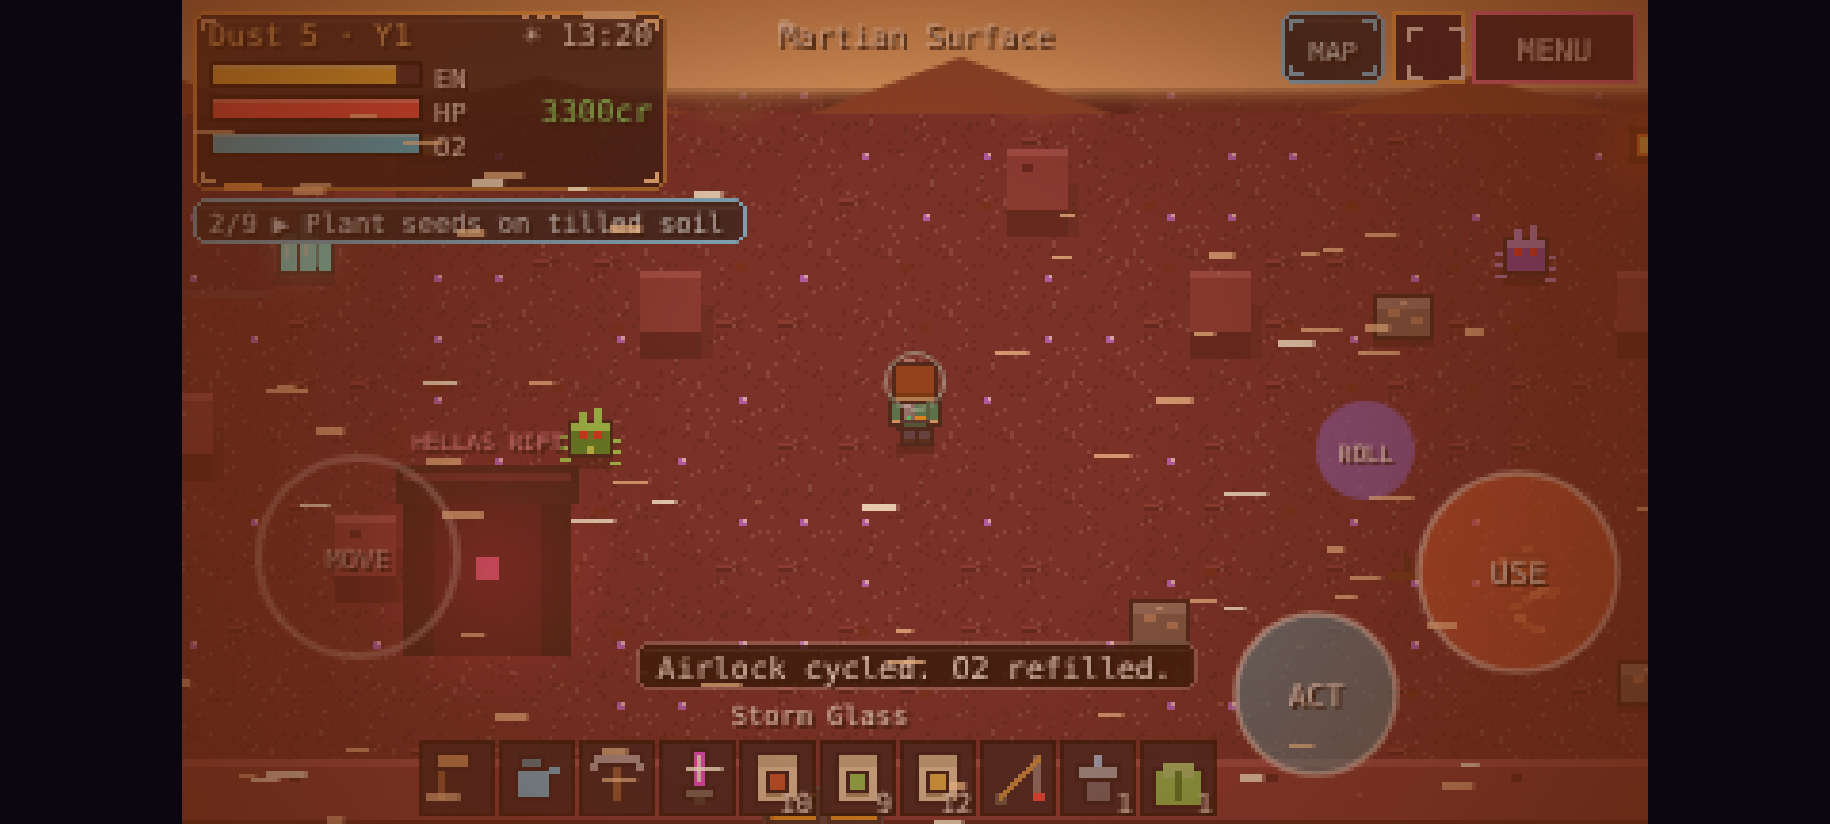
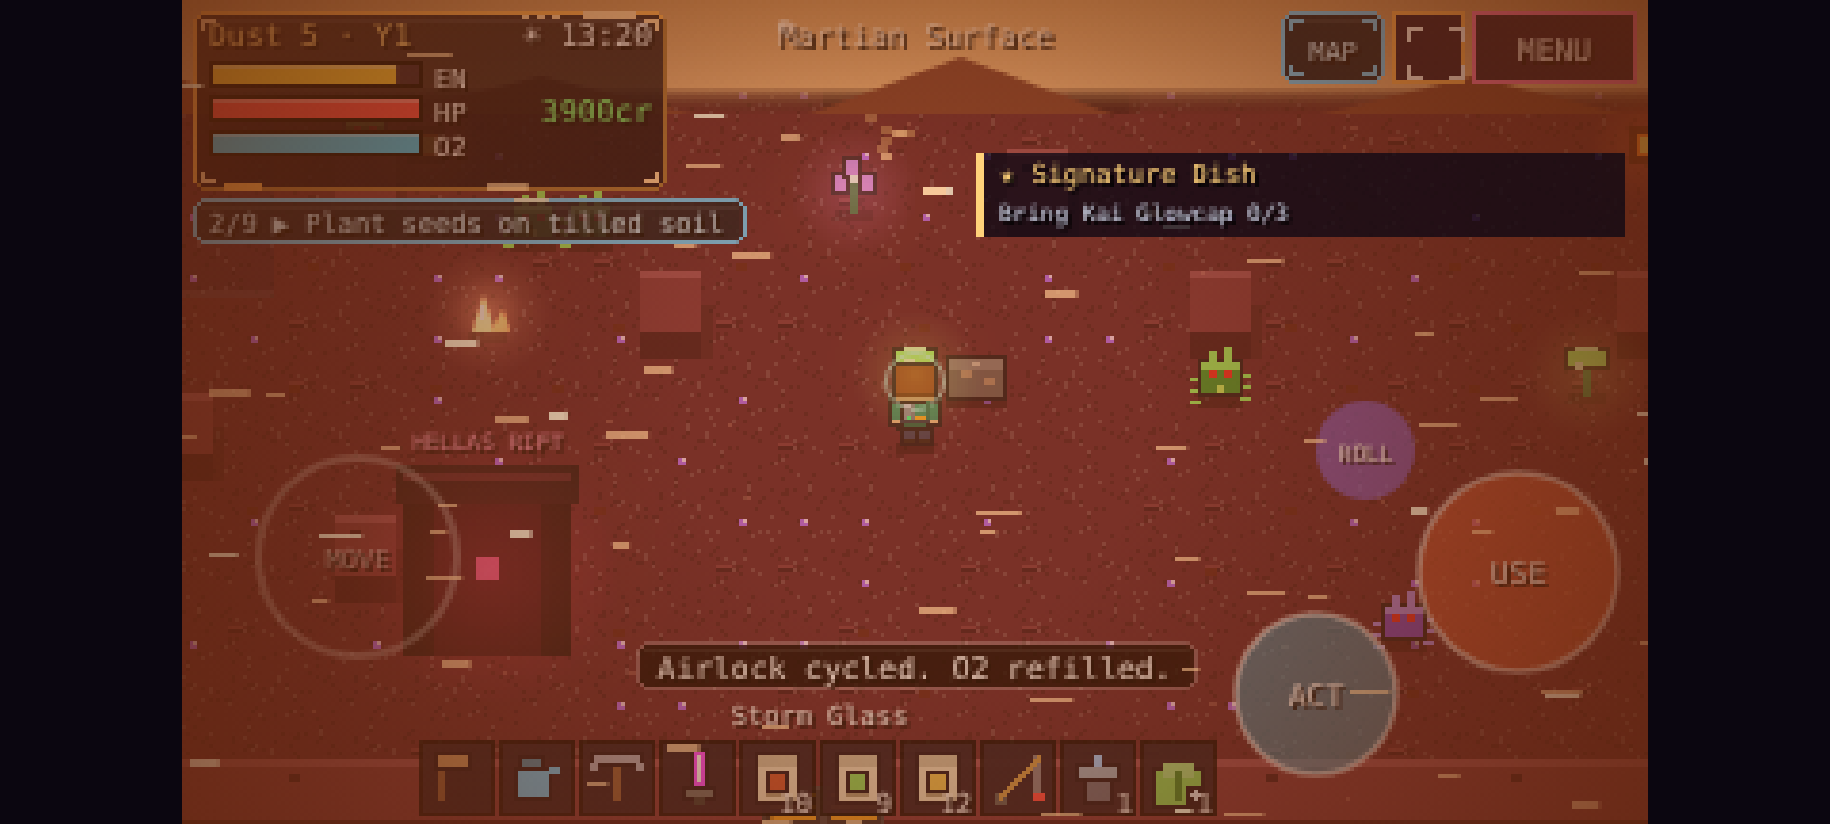
Round 13: fix frame-time spikes (bg cache for farm/city, honest per-frame flush timing, p95 test), friendship side quests + tap-to-open quest tracker, v14

diff --git a/js/v11.js b/js/v11.js
@@ -1,0 +1,29 @@
+// Farm Mars v11 (round 13): friendship side quests + quest tracker
+// ---------- FRIENDSHIP SIDE QUESTS ----------
+const SQ=[
+ {id:'ava1',npc:'ava',h:3,t:'Seal Check',steps:[['iron',5,"The north dome seal is cracking. Could you bring me 5 Iron so I can patch it?"],['crys',2,"The patch holds! Now I need 2 Crystals for the pressure sensor."]],r:[600,'qspr',1],end:"The dome is sealed tight. You've saved us a lot of trouble. Here's a Quality Sprinkler from my stash."},
+ {id:'kai1',npc:'kai',h:3,t:'Signature Dish',steps:[['glowcap',3,"I want a new house special. Bring me 3 Glowcaps and I'll start experimenting."],['egg',2,"Close, but it needs protein. 2 Eggs please!"]],r:[500,'medkit',3],end:"The Glowcap Omelette is a hit! It's named after you on the menu. Take these medkits too."},
+ {id:'mo1',npc:'mo',h:3,t:'Old Mo\'s Lost Pick',steps:[['cob',4,"My grandfather's pick is somewhere down on floor 4. Bring me 4 Cobalt so I can forge a locator."],['jasp',1,"The locator needs a Jasper lens. Just one."]],r:[900,'s_mel',5],end:"Found it! It's still sharp, too. Here are some melon seeds I was keeping for a special occasion."},
+ {id:'pip1',npc:'pip',h:3,t:'Pip\'s Space Garden',steps:[['lily',2,"I'm planting a garden in a tin can. Can I have 2 Dust Lilies? Please!"]],r:[350,'glowcap',3],end:"They're growing! I'm going to be a farmer just like you!"},
+ {id:'theo1',npc:'theo',h:4,t:'Fossil Mystery',steps:[['rel1',1,"I think a buried relic would explain the canyon layers. Could you find one?"],['opal',1,"An Opal would date this precisely. Do you have one?"]],r:[1200,'rGlow',1],end:"Two billion years old! I'll credit you in my paper. Please take this ring."},
+];
+const sqs=()=>{if(!G.sq)G.sq={};return G.sq};
+function sqAvail(q){const s=sqs()[q.id];return s==null&&(G.hearts[q.npc]||0)>=q.h&&!!NPCS.find(n=>n.id==q.npc)&&!!ITEMS[q.steps[0][0]]}
+function sqStatus(q){const s=sqs()[q.id];if(s=='done')return 'Done';if(s==null)return (G.hearts[q.npc]||0)>=q.h?'New!':'Locked ('+q.h+'♥ with '+NPCS.find(n=>n.id==q.npc).n+')';const[it,n]=q.steps[s];return 'Bring '+n+' '+ITEMS[it].n+' ('+Math.min(cnt(it),n)+'/'+n+')'}
+function questLog(){const o=SQ.filter(q=>NPCS.find(n=>n.id==q.npc)).map(q=>q.t+': '+sqStatus(q));say('Side Quests',[o.join('\n')+'\n\nTalk to townsfolk when you are friends to start their quests. Bring what they ask for to finish them.'])}
+{const _t=talk;talk=function(n){const qs=SQ.filter(q=>q.npc==n.id);for(const q of qs){const s=sqs()[q.id];
+  if(s==null&&sqAvail(q)){sqs()[q.id]=0;sfx('menu');say(n.n,['I have a favor to ask... ('+q.t+')',q.steps[0][2]],null,n.look);toast('New side quest: '+q.t);return}
+  if(typeof s=='number'){const[it,c]=q.steps[s];if(cnt(it)>=c){rem(it,c);const ns=s+1;sfx('coin');
+    if(ns>=q.steps.length){sqs()[q.id]='done';G.money+=q.r[0];if(q.r[1])add(q.r[1],q.r[2]);addHearts(n,2);parts(G.px,G.py-12,'#ffd27a',16,1.5);floatTxt(G.px,G.py-26,'Quest complete! +'+q.r[0]+'cr','#ffd27a');
+      G.sqN=(G.sqN||0)+1;if(G.sqN>=3&&!G.ach.helper){G.ach.helper=1;toast('Achievement: Good Neighbor!')}say(n.n,q.end,null,n.look);return}
+    sqs()[q.id]=ns;addHearts(n,1);say(n.n,['Thank you!',q.steps[ns][2]],null,n.look);return}}}
+  return _t(n)}}
+{const _b=boardMenu;boardMenu=function(){_b.apply(this,arguments);if(modal&&!modal.opts)modal.opts=[{t:'OK',f:()=>{}},{t:'Side Quests',f:()=>questLog()}];else if(modal&&modal.opts)modal.opts.push({t:'Side Quests',f:()=>questLog()})}}
+// ---------- quest tracker HUD (tap to open log) ----------
+function sqActive(){for(const q of SQ){const s=sqs()[q.id];if(typeof s=='number')return q}return null}
+function sqTrackRect(){return[W-176,40,170,22]}
+function sqTrackText(q){const[it,n]=q.steps[sqs()[q.id]];const c=Math.min(cnt(it),n);return[q.t,'Bring '+NPCS.find(x=>x.id==q.npc).n+' '+ITEMS[it].n+' '+c+'/'+n,c>=n]}
+{const _d=draw;draw=function(){_d.apply(this,arguments);if(!G||TITLE||CRED||modal||menu||CUT)return;const q=sqActive();if(!q)return;const[x,y,w,h]=sqTrackRect(),[t,l,ready]=sqTrackText(q);
+ R(x,y,w,h,'#0a0614c0');R(x,y,2,h,ready?'#7f7':'#ffd27a');txt('★ '+t,x+6,y+8,'#ffd27a',7);txt(l,x+6,y+18,ready?'#9f9':'#cfd6e8',6)}}
+{const _t=onTap;onTap=function(x,y){if(G&&!TITLE&&!CRED&&!modal&&!menu&&!CUT&&sqActive()){const[a,b,w,h]=sqTrackRect();if(x>=a&&x<=a+w&&y>=b&&y<=b+h){questLog();sfx('menu');return true}}return _t.apply(this,arguments)}}
+window.FM11={SQ,sqs,questLog,sqActive,sqTrackRect};

diff --git a/tests/features.js b/tests/features.js
@@ -19,9 +19,17 @@ module.exports=async({t,ev,page,path,SHOTS})=>{
   if((G.stats.treasure||0)!=tr0+1)throw new Error('no treasure');if(!(G.stats.perfect>=1))throw new Error('no perfect');G.wx='dust';let s=0;for(let i=0;i<200;i++)if(pickFish()=='sglf')s++;G.wx=null;if(!s)throw new Error('no glassfish');return 'ok, glassfish '+s+'/200'}));
  await t('NPC dust-storm dialogue + tap-to-talk',async()=>ev(()=>{G.wx='dust';G.talked={};const n=NPCS.find(q=>q.id=='mo');chat(n);const p=modal&&modal.pages.join(' ');modal=null;G.wx=null;if(!p||!p.includes('Storms'))throw new Error('line: '+p);
   enter('city',16,14,0);G.time=8*60;placeNPCs(true);const r=npcRT.mo;G.px=r.x+20;G.py=r.y;draw();const ox=Math.round(CAM.x),oy=Math.round(CAM.y);G.talked={};onTap(r.x-ox,r.y-10-oy);const ok=!!modal;modal=null;if(!ok)throw new Error('tap did not talk');return 'ok'}));
+ await t('side quests: unlock at hearts, multi-step delivery, rewards, quest log',async()=>ev(()=>{G.sq={};const q=FM11.SQ[0],n=NPCS.find(x=>x.id==q.npc);G.hearts[n.id]=0;talk(n);modal=null;if(G.sq[q.id]!=null)throw new Error('started while locked');
+  G.hearts[n.id]=4;talk(n);modal=null;if(G.sq[q.id]!==0)throw new Error('not started');talk(n);modal=null;if(G.sq[q.id]!==0)throw new Error('advanced without items');
+  add('iron',5);talk(n);modal=null;if(G.sq[q.id]!==1)throw new Error('step1');add('crys',2);const m=G.money;talk(n);modal=null;if(G.sq[q.id]!='done')throw new Error('not done');if(G.money!=m+q.r[0])throw new Error('reward');
+  FM11.questLog();if(!modal||!modal.pages[0].includes('Done'))throw new Error('log');modal=null;for(const x of FM11.SQ)for(const[s]of x.steps)if(!ITEMS[s])throw new Error('bad item '+s);boardMenu();if(!modal.opts.some(o=>o.t=='Side Quests'))throw new Error('board link');modal=null;
+  const q2=FM11.SQ[1];G.hearts[q2.npc]=5;talk(NPCS.find(x=>x.id==q2.npc));modal=null;if(FM11.sqActive()!=q2)throw new Error('tracker');draw();const[rx,ry,rw,rh]=FM11.sqTrackRect();onTap(rx+10,ry+10);if(!modal||!modal.pages[0].includes(q2.t))throw new Error('tracker tap');modal=null;return 'ok'}));
  await t('screenshots',async()=>{const shot=async(n,f)=>{await ev(f);await new Promise(r=>setTimeout(r,450));await page.screenshot({path:path.join(SHOTS,n)})};
   await shot('fm13_museum.png',()=>{for(const i of FM10.MALL.slice(0,22))G.muse[i]=1;enter('museum',6,5,0);G.time=700;modal=null;if(npcRT.theo){npcRT.theo.zone='museum';npcRT.theo.x=10*T+8;npcRT.theo.y=4*T+8}});
   await shot('fm13_dust.png',()=>{G.wx='dust';DUSTD=-1;SURF=null;enter('surf',33,37,0);G.time=800;modal=null});
   await shot('fm13_magma.png',()=>{G.wx=null;enterMine(8);modal=null;G.px=9*T;G.py=8*T;const e=ENTS.filter(e=>e.t=='ember');if(e[0]){e[0].x=G.px+40;e[0].y=G.py-10;e[0].tm=60}});
-  await ev(()=>{enter('farm',13,9,2)});return 'saved'});
+  await shot('fm14_tracker.png',()=>{modal=null;G.sq={kai1:0};add('glowcap',2);enter('farm',13,9,2);G.time=1000});
+  await shot('fm14_log.png',()=>{G.sq={ava1:'done',kai1:1,mo1:0};FM11.questLog()});
+  await shot('fm14_quest.png',()=>{modal=null;G.sq={};const n=NPCS.find(x=>x.id=='kai');G.hearts.kai=5;enter('city',16,14,0);G.time=720;placeNPCs(true);const r=npcRT.kai;if(r.zone=='city'){G.px=r.x+20;G.py=r.y}talk(n)});
+  await ev(()=>{modal=null;enter('farm',13,9,2)});return 'saved'});
 };

diff --git a/js/ui.js b/js/ui.js
@@ -94,8 +94,8 @@ function shoot(e,a,s,d){PR.push({x:e.x,y:e.y-6,vx:Math.cos(a)*s,vy:Math.sin(a)*s
 // ---------- render ----------
 let LIGHTS=[];const light=(x,y,r,c)=>LIGHTS.push({x,y,r,c});
 // static base-tile layer for big outdoor maps (one blit instead of ~400 per frame)
-const BGK={};function bgCache(z,m){if(z!='valles'&&z!='surf'&&z!='mine')return null;const mw=m[0].length*T,mh=m.length*T;if(mw<W||mh<H)return null;const k=z+(z=='surf'?G.terra:''),sig=z=='mine'?m.map(r=>r.join('')).join(''):'';const o=BGK[k];if(o&&o.m===m&&o.sig===sig)return o.c;
- const c=document.createElement('canvas');c.width=mw;c.height=mh;const g=c.getContext('2d');for(let y=0;y<m.length;y++)for(let x=0;x<m[0].length;x++)g.drawImage(tileImg(z,m[y][x],hash(x,y)%4),x*T,y*T);BGK[k]={m,c,sig};return c}
+const BGK={};function bgCache(z,m){if(z!='valles'&&z!='surf'&&z!='mine'&&z!='farm'&&z!='city')return null;const mw=m[0].length*T,mh=m.length*T;if(mw<W||mh<H)return null;const k=z+(z=='surf'?G.terra:''),sig=z=='mine'||z=='farm'||z=='city'?m.map(r=>r.join('')).join(''):'';const o=BGK[k];if(o&&o.m===m&&o.sig===sig)return o.c;
+ const c=document.createElement('canvas');c.width=mw;c.height=mh;const g=c.getContext('2d');for(let y=0;y<m.length;y++)for(let x=0;x<m[0].length;x++){let t=m[y][x];if(z=='farm'&&'HBTLN'.includes(t))t='g';if(z=='city'&&'HAFLSQ'.includes(t))t='p';g.drawImage(tileImg(z,t,hash(x,y)%4),x*T,y*T)}BGK[k]={m,c,sig};return c}
 function zoneKey(){return G.zone}
 function draw(){if(CRED){drawCredits();return}if(TITLE){drawTitle();return}const z=G.zone,m=curMap(),mw=m[0].length*T,mh=m.length*T;LIGHTS=[];
  CAMX=0;const tox=Math.max(0,Math.min(mw-W,G.px-W/2)),toy=Math.max(0,Math.min(mh-H,G.py-H/2-10));if(CAM.z!==G.zone||FADE>0||Math.abs(CAM.x-tox)>90||Math.abs(CAM.y-toy)>90){CAM.x=tox;CAM.y=toy}else{CAM.x+=(tox-CAM.x)*.2;CAM.y+=(toy-CAM.y)*.2}CAM.z=G.zone;let ox=Math.round(CAM.x),oy=Math.round(CAM.y);if(mw<W)ox=Math.round(-(W-mw)/2);if(mh<H)oy=Math.round(-(H-mh)/2);
@@ -135,7 +135,7 @@ function draw(){if(CRED){drawCredits();return}if(TITLE){drawTitle();return}const
   if(e.k=='ore')D.push([Y+4,()=>drawOre(e,X,Y)]),e.t!='stone'&&e.t!='iron'&&light(X,Y-4,18,ITEMS[e.t].c);
   if(e.k=='plant'){D.push([Y+4,()=>drawPlant(e,X,Y)]);light(X,Y-4,24,ITEMS[e.t].c)}
   if(e.k=='bug'){D.push([Y+4,()=>drawBug(e,X,Y)]);if(e.t=='queen')light(X,Y-10,60,'#4df')}}
- D.sort((a,b)=>a[0]-b[0]).forEach(d=>d[1]());
+ if(typeof drawExtra=='function')drawExtra(D,ox,oy,z);D.sort((a,b)=>a[0]-b[0]).forEach(d=>d[1]());
  PR.forEach(p=>{R(p.x-ox-2,p.y-oy-2,4,4,p.c);R(p.x-ox-1,p.y-oy-1,2,2,'#fff');light(p.x-ox,p.y-oy,10,p.c)});
  P.forEach(p=>R(p.x-ox,p.y-oy,2,2,p.c));
  overlays(ox,oy);weather(ox,oy);lighting(ox,oy);if(z=='surf'||z=='valles')skyBand(ox,oy);if(G.zone=='city'&&isFestival()&&G.time>=480&&G.time<1000)festival(ox,oy);if(FISHING)drawFish(ox,oy);

diff --git a/tests/run.js b/tests/run.js
@@ -52,9 +52,9 @@ function ok(c,m){if(!c)throw new Error(m)}
  await t('mailbox: letters arrive and read',async()=>{return await ev(()=>{G.day=5;const n=FM9.mailCheck()+G.mail.box.length;FM9.mailMenu();modal=null;const id=G.mail.box[0];FM9.readLetter(id);modal=null;if(!G.mail.read[id])throw new Error('not read');return n+' letters'})});
  if(fs.existsSync(path.join(__dirname,'features.js')))await require('./features.js')({t,ev,ok,page,path,SHOTS});
  await t('no console/page errors',async()=>{const e=await ev(()=>window.__err&&String(window.__err.stack||window.__err));if(e)errors.push('loop: '+e);ok(!errors.length,errors.slice(0,5).join(' | '))});
- await t('frame time < 16.7ms at 4x CPU throttle',async()=>{const c=await page.target().createCDPSession();await c.send('Emulation.setCPUThrottlingRate',{rate:4});
+ await t('frame time avg + p95 < 16.7ms at 4x CPU throttle',async()=>{const c=await page.target().createCDPSession();await c.send('Emulation.setCPUThrottlingRate',{rate:4});
   const r=await ev(async()=>{const out={};const go=async(z)=>{if(z=='mine')enterMine(4);else if(z=='rift'){FM8.enterRift(3);modal=null}else if(z=='dust'){G.wx='dust';enter('surf',31,40,2)}else enter(z,...({farm:[13,9],city:[15,12],surf:[31,40],valles:[2,18]}[z]),2);modal=null;
-    for(let i=0;i<20;i++){update();draw()}const ts=[];for(let i=0;i<90;i++){const a=performance.now();update();draw();ts.push(performance.now()-a)}ts.sort((a,b)=>a-b);out[z]=[+(ts.reduce((a,b)=>a+b)/ts.length).toFixed(2),+ts[Math.floor(ts.length*.95)].toFixed(2)]};
+    for(let i=0;i<20;i++){update();draw()}const ts=[];for(let i=0;i<90;i++){const a=performance.now();update();draw();cx.getImageData(0,0,1,1);ts.push(performance.now()-a)}ts.sort((a,b)=>a-b);out[z]=[+(ts.reduce((a,b)=>a+b)/ts.length).toFixed(2),+ts[Math.floor(ts.length*.95)].toFixed(2)]};
    for(const z of ['farm','city','surf','valles','mine','rift','dust'])await go(z);G.wx=null;enter('farm',13,9,2);return out});
-  await c.send('Emulation.setCPUThrottlingRate',{rate:1});const bad=Object.entries(r).filter(([z,[a]])=>a>=16.7);ok(!bad.length,'slow: '+JSON.stringify(bad));return Object.entries(r).map(([z,[a,p]])=>z+' avg '+a+' p95 '+p).join(', ')});
+  await c.send('Emulation.setCPUThrottlingRate',{rate:1});const bad=Object.entries(r).filter(([z,[a,p]])=>a>=16.7||p>=16.7);ok(!bad.length,'slow: '+JSON.stringify(bad));return Object.entries(r).map(([z,[a,p]])=>z+' avg '+a+' p95 '+p).join(', ')});
  await br.close();if(srv)srv.close();const f=results.filter(r=>!r[1]).length;console.log(`\n${results.length-f}/${results.length} passed against ${base}`);process.exit(f?1:0)})();

diff --git a/index.html b/index.html
@@ -5,4 +5,4 @@ canvas{position:absolute;image-rendering:pixelated;image-rendering:crisp-edges}
 #rot{display:none;position:fixed;inset:0;color:#f6a;background:#0b0610;align-items:center;justify-content:center;text-align:center;font-size:20px;z-index:9}
 @media (orientation:portrait){#rot{display:flex}}</style></head>
 <body><canvas id="c"></canvas><div id="rot">↻ Rotate your phone to landscape<br>to play Farm Mars</div>
-<script src="js/data.js?v=13"></script><script src="js/audio.js?v=13"></script><script src="js/maps.js?v=13"></script><script src="js/art.js?v=13"></script><script src="js/game.js?v=13"></script><script src="js/ui.js?v=13"></script><script src="js/v5.js?v=13"></script><script src="js/v6.js?v=13"></script><script src="js/v7.js?v=13"></script><script src="js/v8.js?v=13"></script><script src="js/v9.js?v=13"></script><script src="js/v10.js?v=13"></script></body></html>
+<script src="js/data.js?v=14"></script><script src="js/audio.js?v=14"></script><script src="js/maps.js?v=14"></script><script src="js/art.js?v=14"></script><script src="js/game.js?v=14"></script><script src="js/ui.js?v=14"></script><script src="js/v5.js?v=14"></script><script src="js/v6.js?v=14"></script><script src="js/v7.js?v=14"></script><script src="js/v8.js?v=14"></script><script src="js/v9.js?v=14"></script><script src="js/v10.js?v=14"></script><script src="js/v11.js?v=14"></script></body></html>

diff --git a/sw.js b/sw.js
@@ -1,4 +1,4 @@
-const V='farmmars-v13',F=['./','index.html','manifest.json','favicon.svg','icon-192.png','icon-512.png',...['data','audio','maps','art','game','ui','v5','v6','v7','v8','v9','v10'].map(n=>'js/'+n+'.js?v=13')];
+const V='farmmars-v14',F=['./','index.html','manifest.json','favicon.svg','icon-192.png','icon-512.png',...['data','audio','maps','art','game','ui','v5','v6','v7','v8','v9','v10','v11'].map(n=>'js/'+n+'.js?v=14')];
 self.addEventListener('install',e=>{e.waitUntil(caches.open(V).then(c=>c.addAll(F)));self.skipWaiting()});
 self.addEventListener('activate',e=>{e.waitUntil(caches.keys().then(k=>Promise.all(k.filter(x=>x!=V).map(x=>caches.delete(x)))));self.clients.claim()});
 self.addEventListener('fetch',e=>{if(e.request.method!='GET')return;e.respondWith(fetch(e.request).then(r=>{const c=r.clone();caches.open(V).then(ca=>ca.put(e.request,c));return r}).catch(()=>caches.match(e.request,{ignoreSearch:false}).then(r=>r||caches.match('index.html'))))});
